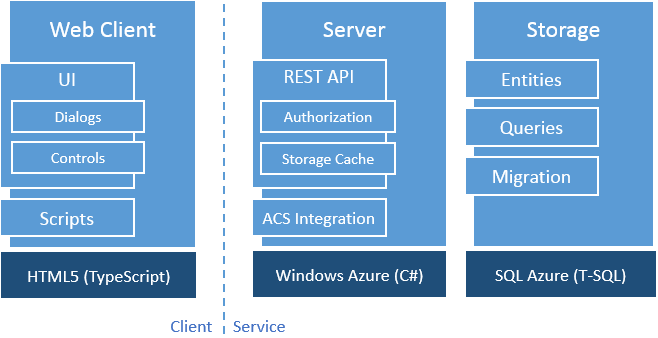
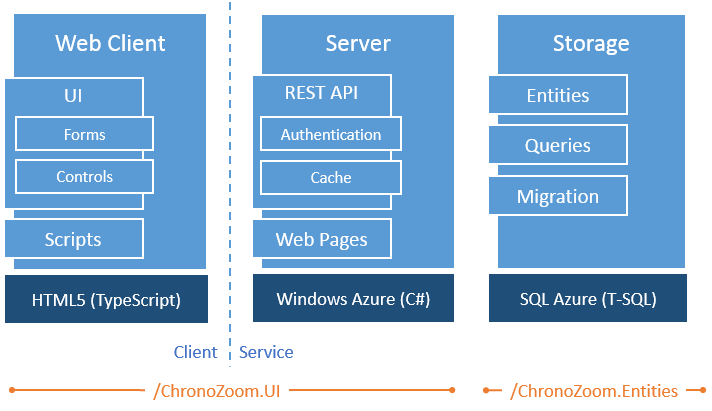
Refresh Architecture Document

diff --git a/Doc/ChronoZoom_Architecture.md b/Doc/ChronoZoom_Architecture.md
@@ -24,6 +24,12 @@ The following diagram depicts the high-level architecture:
 
 ## Client Architecture ##
 
+![Login](images/architecture_client.png)
+
 ## Server Architecture ##
 
+![Login](images/architecture_server.png)
+
 ## Storage Architecture ##
+
+![Login](images/architecture_storage.png)
